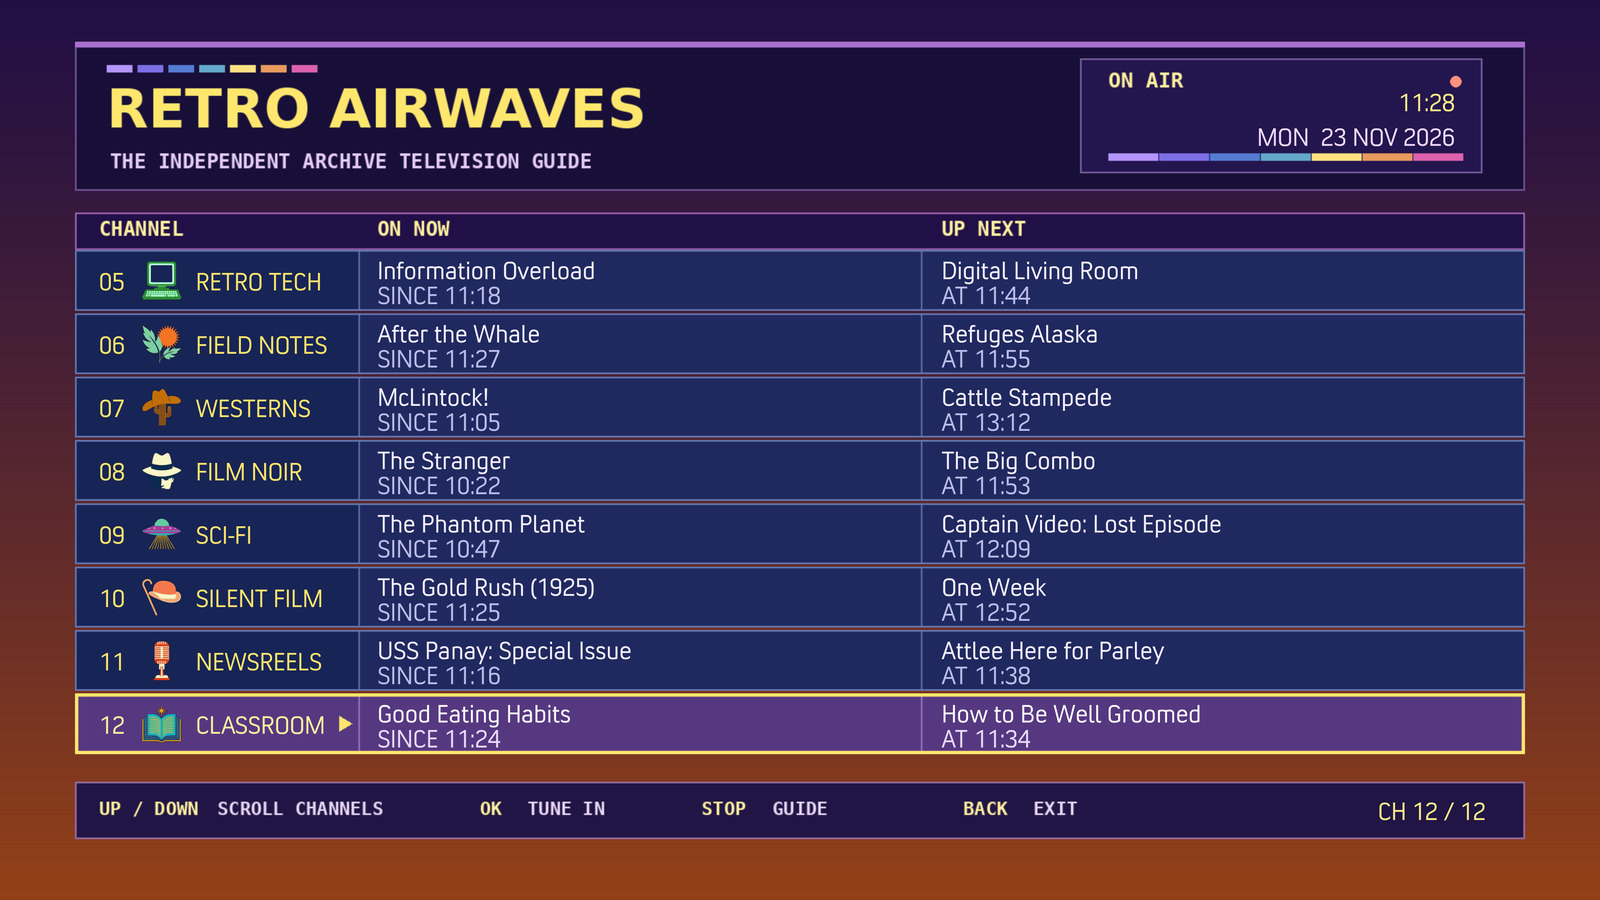
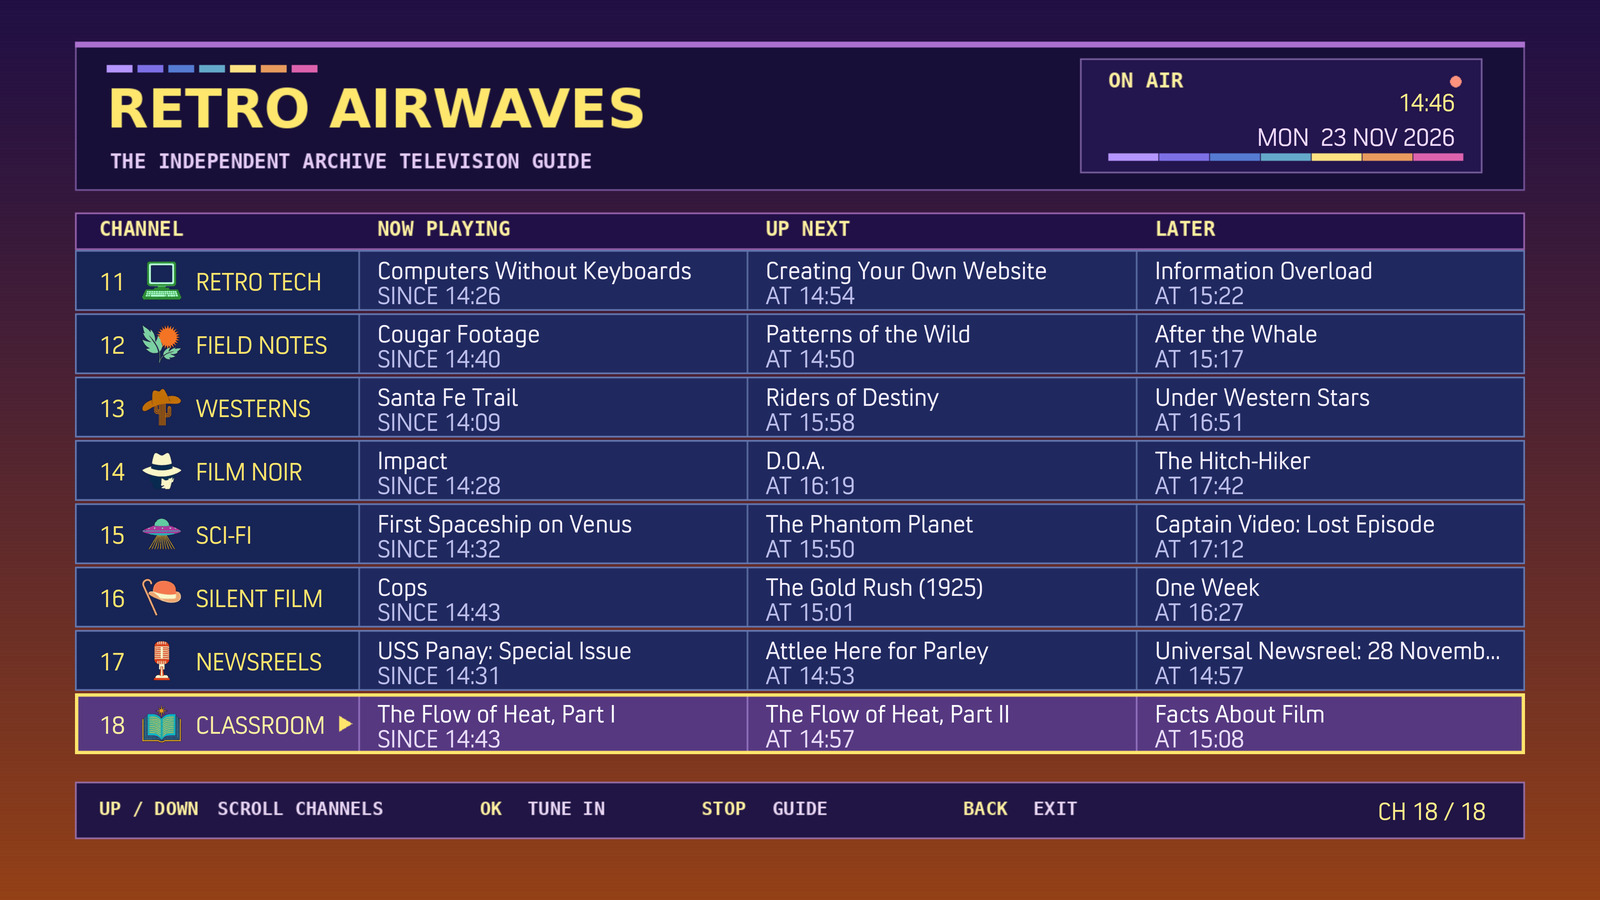
Release Retro Airwaves v1.4.0
- Expand the independent lineup to 18 channels, with six new children’s, history, nature, and science channels.
- Show Now Playing, Up Next, and Later in Kodi and in the new browser player.
- Update the Kodi guide screenshots and install documentation.

diff --git a/web/index.html b/web/index.html
@@ -1,0 +1,197 @@
+<!doctype html>
+<html lang="en">
+<head>
+<meta charset="utf-8">
+<meta name="viewport" content="width=device-width, initial-scale=1">
+<meta name="referrer" content="no-referrer">
+<title>Retro Airwaves · Live Guide</title>
+<style>
+  :root { color-scheme: dark; --gold: #ffe88a; --ink: #191235; --panel: #1c2455; --line: #8274ae; --muted: #d7ceed; }
+  * { box-sizing: border-box; }
+  body { margin: 0; min-height: 100vh; color: #fff; background: linear-gradient(#211340, #26193d 55%, #673221) fixed; font: 1rem/1.45 system-ui, sans-serif; }
+  main { max-width: 94rem; margin: auto; padding: clamp(1rem, 3vw, 2.5rem); }
+  .masthead, .player { padding: clamp(1rem, 2vw, 1.5rem); background: var(--ink); border: 1px solid var(--line); }
+  .masthead { display: flex; flex-wrap: wrap; gap: .5rem 2rem; align-items: end; justify-content: space-between; border-top: .3rem solid #ba85d0; }
+  h1 { margin: 0; color: var(--gold); font-size: clamp(1.9rem, 5vw, 3.2rem); line-height: 1.05; text-transform: uppercase; letter-spacing: .035em; }
+  .eyebrow, .clock, th, .number, .time { font-family: ui-monospace, monospace; }
+  .eyebrow, .clock { margin: .4rem 0 0; color: var(--muted); }
+  .clock { color: var(--gold); }
+  .layout { display: grid; gap: 1rem; margin-top: 1rem; }
+  .player { min-width: 0; align-self: start; }
+  .player h2 { margin: 0; font-size: 1.2rem; }
+  video { display: block; width: 100%; max-height: 52vh; margin-top: .8rem; background: #090713; }
+  [hidden] { display: none; }
+  a { color: var(--gold); }
+  .guide { overflow: auto; min-width: 0; border: 1px solid var(--line); }
+  table { width: 100%; border-collapse: collapse; min-width: 44rem; table-layout: fixed; }
+  th, td { text-align: left; vertical-align: top; border: 1px solid #6873a5; padding: .48rem .65rem; }
+  thead { color: var(--gold); background: var(--ink); }
+  th:first-child { width: 24%; }
+  tbody tr { background: var(--panel); }
+  tbody tr:nth-child(even) { background: #242c5d; }
+  tbody tr:focus-within, tbody tr[data-selected] { background: #52377b; }
+  .pick { display: flex; gap: .55rem; align-items: baseline; min-height: 2rem; width: 100%; padding: .2rem 0; border: 0; color: var(--gold); background: transparent; text-align: left; font: inherit; cursor: pointer; }
+  .pick:hover { text-decoration: underline; }
+  .number, .time { font-size: .82rem; }
+  .time { display: block; color: var(--muted); }
+  :focus-visible { outline: 2px solid var(--gold); outline-offset: 2px; }
+  @media (min-width: 73rem) {
+    .layout { grid-template-columns: minmax(44rem, 2fr) minmax(19rem, 1fr); }
+    .player { position: sticky; top: 1rem; grid-area: 1 / 2; }
+    .guide { grid-area: 1 / 1; }
+  }
+</style>
+</head>
+<body>
+<main>
+  <header class="masthead">
+    <div><h1>Retro Airwaves</h1><p class="eyebrow">The independent archive television guide</p></div>
+    <p class="clock">ON AIR · <time id="clock"></time></p>
+  </header>
+  <div class="layout">
+    <section class="player" aria-labelledby="watch-title" id="player">
+      <h2 id="watch-title">Watch live</h2>
+      <video controls playsinline preload="none" hidden aria-labelledby="watch-title"></video>
+      <p id="status" role="status">Choose a channel to join the program in progress.</p>
+      <a id="source" href="https://archive.org/" target="_blank" rel="noopener" hidden>Program source ↗</a>
+    </section>
+    <section class="guide" aria-label="Channel guide" tabindex="0">
+      <table aria-label="Program schedule in local time">
+        <thead><tr><th scope="col">Channel</th><th scope="col">Now Playing</th><th scope="col">Up Next</th><th scope="col">Later</th></tr></thead>
+        <tbody id="channels"></tbody>
+      </table>
+    </section>
+  </div>
+</main>
+<script>
+  'use strict';
+  const EPOCH = 1767225600; // Same UTC epoch and duration rules as the Kodi add-on.
+  const now = () => Date.now() / 1000;
+  const localTime = new Intl.DateTimeFormat(undefined, {hour: '2-digit', minute: '2-digit', hourCycle: 'h23'});
+  const timeAt = seconds => localTime.format(seconds * 1000);
+  const video = document.querySelector('video');
+  const playbackStatus = document.querySelector('#status');
+  const source = document.querySelector('#source');
+  const watchTitle = document.querySelector('#watch-title');
+  const clock = document.querySelector('#clock');
+  let active, rollover;
+
+  function schedule(channel, t) {
+    const {programs, phase, period} = channel;
+    let elapsed = (t - EPOCH + phase) % period;
+    if (elapsed < 0) elapsed += period;
+    let i = 0;
+    while (i < programs.length - 1 && elapsed >= programs[i].seconds) elapsed -= programs[i++].seconds;
+    const program = programs[i], next = programs[(i + 1) % programs.length];
+    const start = t - elapsed, end = start + program.seconds;
+    return {program, next, later: programs[(i + 2) % programs.length], start, end};
+  }
+
+  const mediaUrl = p => p.url || `https://archive.org/download/${encodeURIComponent(p.item)}/${encodeURIComponent(p.file)}`;
+
+  function tune(row) {
+    clearTimeout(rollover);
+    if (active && active.row !== row) {
+      active.row.button.setAttribute('aria-pressed', 'false');
+      delete active.row.tr.dataset.selected;
+    }
+    const slot = schedule(row.channel, now());
+    const current = active = {row, slot};
+    row.button.setAttribute('aria-pressed', 'true');
+    row.tr.dataset.selected = '';
+    watchTitle.textContent = `${row.channel.name} · ${slot.program.title}`;
+    playbackStatus.textContent = 'Tuning in…';
+    source.href = slot.program.source_page || `https://archive.org/details/${encodeURIComponent(slot.program.item)}`;
+    source.hidden = video.hidden = false;
+    video.src = mediaUrl(slot.program);
+    video.play().catch(error => {
+      if (active !== current || error.name === 'AbortError') return;
+      if (error.name === 'NotAllowedError') playbackStatus.textContent = 'Press Play in the video controls.';
+      else streamError();
+    });
+  }
+
+  function streamError() {
+    playbackStatus.textContent = 'This stream could not play. Try another channel or open the program source.';
+  }
+  video.addEventListener('error', streamError);
+  video.addEventListener('loadedmetadata', () => {
+    const t = now();
+    if (t >= active.slot.end) { tune(active.row); return; }
+    video.currentTime = Math.max(0, t - active.slot.start);
+  });
+  video.addEventListener('playing', () => { playbackStatus.textContent = 'Playing live'; });
+  video.addEventListener('ended', () => {
+    const {row, slot} = active;
+    const wait = slot.end - now();
+    if (wait > 3) { playbackStatus.textContent = 'The stream ended early. Select the channel again to retune.'; return; }
+    playbackStatus.textContent = 'Waiting for the next program…';
+    rollover = setTimeout(() => tune(row), Math.max(0, Math.ceil(wait * 1000)) + 50);
+  });
+
+  function makeRow(channel, index) {
+    const tr = document.createElement('tr');
+    const label = document.createElement('th');
+    label.scope = 'row';
+    const button = document.createElement('button');
+    button.type = 'button';
+    button.className = 'pick';
+    button.setAttribute('aria-pressed', 'false');
+    const number = document.createElement('span');
+    number.className = 'number';
+    number.textContent = String(index + 1).padStart(2, '0');
+    button.append(number, channel.name);
+    label.append(button);
+    tr.append(label);
+    const cells = Array.from({length: 3}, () => {
+      const td = tr.insertCell();
+      const title = document.createElement('span');
+      const time = document.createElement('time');
+      time.className = 'time';
+      td.append(title, time);
+      return {title, time};
+    });
+    const row = {channel, tr, button, cells};
+    button.addEventListener('click', () => {
+      tune(row);
+      if (video.getBoundingClientRect().bottom < 0) {
+        document.querySelector('#player').scrollIntoView({block: 'start'});
+        video.focus();
+      }
+    });
+    return row;
+  }
+
+  function refresh(rows) {
+    const t = now();
+    clock.textContent = timeAt(t);
+    clock.dateTime = new Date(t * 1000).toISOString();
+    for (const row of rows) {
+      const s = schedule(row.channel, t);
+      const key = Math.round(s.start * 1000);
+      if (key === row.startKey) continue;
+      row.startKey = key;
+      [s.program, s.next, s.later].forEach((program, i) => {
+        const {title, time} = row.cells[i];
+        const at = [s.start, s.end, s.end + s.next.seconds][i];
+        title.textContent = program.title;
+        time.textContent = `${i === 0 ? 'Since' : 'At'} ${timeAt(at)}`;
+        time.dateTime = new Date(at * 1000).toISOString();
+      });
+    }
+  }
+
+  async function openGuide() {
+    const catalog = location.pathname === '/retro-airwaves/' ? './channels.json' : '../script.retro.airwaves/resources/channels.json';
+    const response = await fetch(catalog);
+    if (!response.ok) throw new Error(`Catalog: ${response.status}`);
+    const channels = await response.json();
+    const rows = channels.map((channel, i) => makeRow({...channel, period: channel.programs.reduce((sum, p) => sum + p.seconds, 0)}, i));
+    document.querySelector('#channels').append(...rows.map(row => row.tr));
+    refresh(rows);
+    setInterval(() => refresh(rows), 1000);
+  }
+  openGuide().catch(() => { playbackStatus.textContent = 'The channel guide could not load. Reload the page to try again.'; });
+</script>
+</body>
+</html>

diff --git a/script.retro.airwaves/resources/schedule.py b/script.retro.airwaves/resources/schedule.py
@@ -9,6 +9,11 @@ class Slot(NamedTuple):
     next_program: dict
     starts_at: float
     ends_at: float
+    later_program: dict
+
+    @property
+    def later_starts_at(self):
+        return self.ends_at + self.next_program['seconds']
 
 
 def tune(channel, now):
@@ -19,7 +24,9 @@ def tune(channel, now):
         duration = program['seconds']
         if pos < duration:
             start = now - pos
-            return Slot(program, programs[(index + 1) % len(programs)], start, start + duration)
+            count = len(programs)
+            return Slot(program, programs[(index + 1) % count], start, start + duration,
+                        programs[(index + 2) % count])
         pos -= duration
 
 

diff --git a/check_schedule.py b/check_schedule.py
@@ -23,6 +23,9 @@ def main():
             assert just_before.program == program and just_before.next_program == next_program
             assert abs(just_before.ends_at - cut) < 0.001
             assert just_after.program == next_program and abs(just_after.starts_at - cut) < 0.001
+            later = tune(channel, cut + next_program['seconds'] + 0.25)
+            assert just_before.later_program == later.program
+            assert abs(just_before.later_starts_at - later.starts_at) < 0.001
             anchor = cut
         assert tune(channel, EPOCH - channel['phase'] - 0.25).program == programs[-1]
     urls = [media_url(p) for c in channels for p in c['programs']]

diff --git a/script.retro.airwaves/resources/guide.py b/script.retro.airwaves/resources/guide.py
@@ -45,6 +45,8 @@ class Guide(xbmcgui.WindowXML):
             item.setProperty('Since', datetime.fromtimestamp(slot.starts_at).strftime('%H:%M'))
             item.setProperty('UpNext', slot.next_program['title'])
             item.setProperty('NextAt', datetime.fromtimestamp(slot.ends_at).strftime('%H:%M'))
+            item.setProperty('Later', slot.later_program['title'])
+            item.setProperty('LaterAt', datetime.fromtimestamp(slot.later_starts_at).strftime('%H:%M'))
 
     def onClick(self, control_id):
         if control_id == CHANNELS:

diff --git a/README.md b/README.md
@@ -1,10 +1,14 @@
 # Retro Airwaves
 
-Retro Airwaves is a Kodi-native alternative to [Spelunkr](https://spelunkr.tv/app). It has 12 independently scheduled channels of archival film and television. It does not call Spelunkr, require an account, or run a server.
+Retro Airwaves is an independent alternative to [Spelunkr](https://spelunkr.tv/app), with the same 18-channel lineup in Kodi and the browser. Both guides show archival film and television on a shared clock. Neither uses Spelunkr or requires an account.
 
-![Retro Airwaves in Kodi: eight visible rows in a purple-and-blue cable guide with channel badges, current programs, and upcoming times](screenshots/guide.jpg)
+![Retro Airwaves in Kodi: eight visible channels with Now Playing, Up Next, and Later columns](screenshots/guide.jpg)
 
-[See the guide scrolled to channels 5–12](screenshots/guide-scrolled.jpg).
+[See the guide scrolled to channels 11–18](screenshots/guide-scrolled.jpg).
+
+## Watch in a browser
+
+Serve the repository root with any static HTTP server and open `/web/`. Choose a channel to join the program already in progress. The browser streams directly from the archives; if a stream is unavailable, use the program source link or try another channel. No Kodi installation is needed.
 
 ## Install on Kodi
 
@@ -12,13 +16,13 @@ Retro Airwaves is a Kodi-native alternative to [Spelunkr](https://spelunkr.tv/ap
 2. In Kodi, open **Add-ons → Add-on browser → Install from zip file** and pick the downloaded ZIP. If Kodi requires **Unknown sources**, enable it only long enough to install the ZIP.
 3. Open **Retro Airwaves** from **Program add-ons**. If your skin supports Home shortcuts, add `RunAddon(script.retro.airwaves)`.
 
-Tested on Kodi 20.5 (Nexus). The add-on uses Kodi's player to stream directly from the Internet Archive and Wikimedia Commons. No account, separate server, or IPTV configuration is required. The ZIP does not change your skin or existing Live TV setup.
+Tested on Kodi 20.5 (Nexus). The add-on uses Kodi's player to stream from the Internet Archive, Wikimedia Commons, NOAA, and the National Park Service. No account, separate server, or IPTV configuration is required. The ZIP does not change your skin or existing Live TV setup.
 
 ## Use the guide
 
-The guide shows eight channels at a time. Use **Up/Down** to scroll the full lineup, **OK** to tune in at the scheduled point, and **Stop** to return to the guide. **Back** closes the guide. Each channel shows its current and upcoming programs in local time.
+The guide shows eight channels at a time. Each row shows **Now Playing**, **Up Next**, and **Later** (the program after Up Next), with start times in local time. Use **Up/Down** to scroll and **OK** to tune in live. **Stop** returns to the guide; **Back** closes it.
 
-The lineup includes Oddities, Space, Toons, In Motion, Retro Tech, Field Notes, Westerns, Film Noir, Sci-Fi, Silent Film (comedy), Newsreels, and Classroom.
+The first six channels are **Kids Club** (ranger activities and animation), **Storybook** (fairy tales and animated stories), **Time Travel** (history), **Ocean Life** (marine science), **Deep Time** (fossils and geology), and **Science Lab** (NASA education shows). The rest of the lineup includes Oddities, Space, Toons, In Motion, Retro Tech, Field Notes, Westerns, Film Noir, Sci-Fi, Silent Film, Newsreels, and Classroom. The guide is not a parental-control or ratings filter.
 
 ![A frame from the 1941 Superman cartoon playing fullscreen in Kodi](screenshots/playback.jpg)
 
